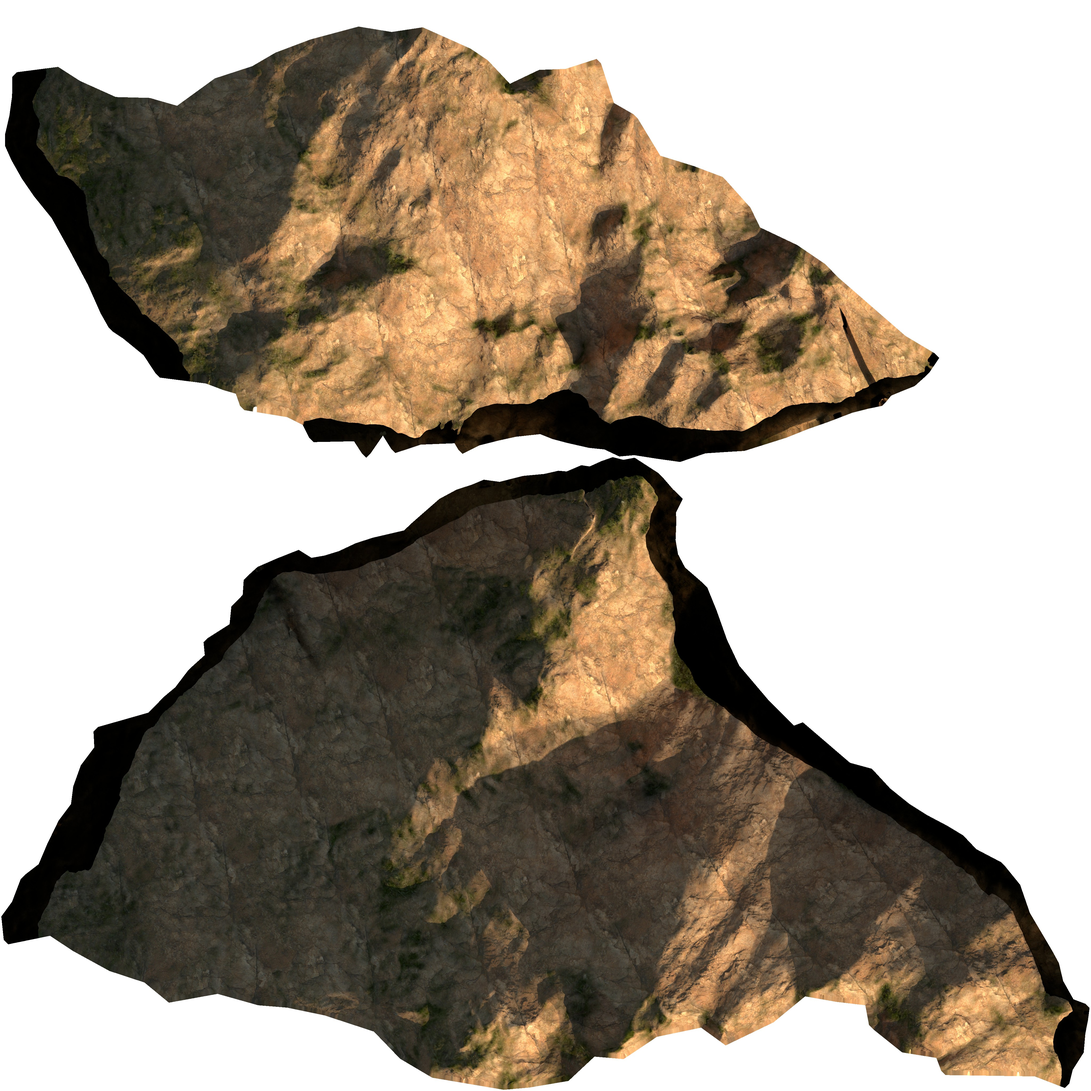
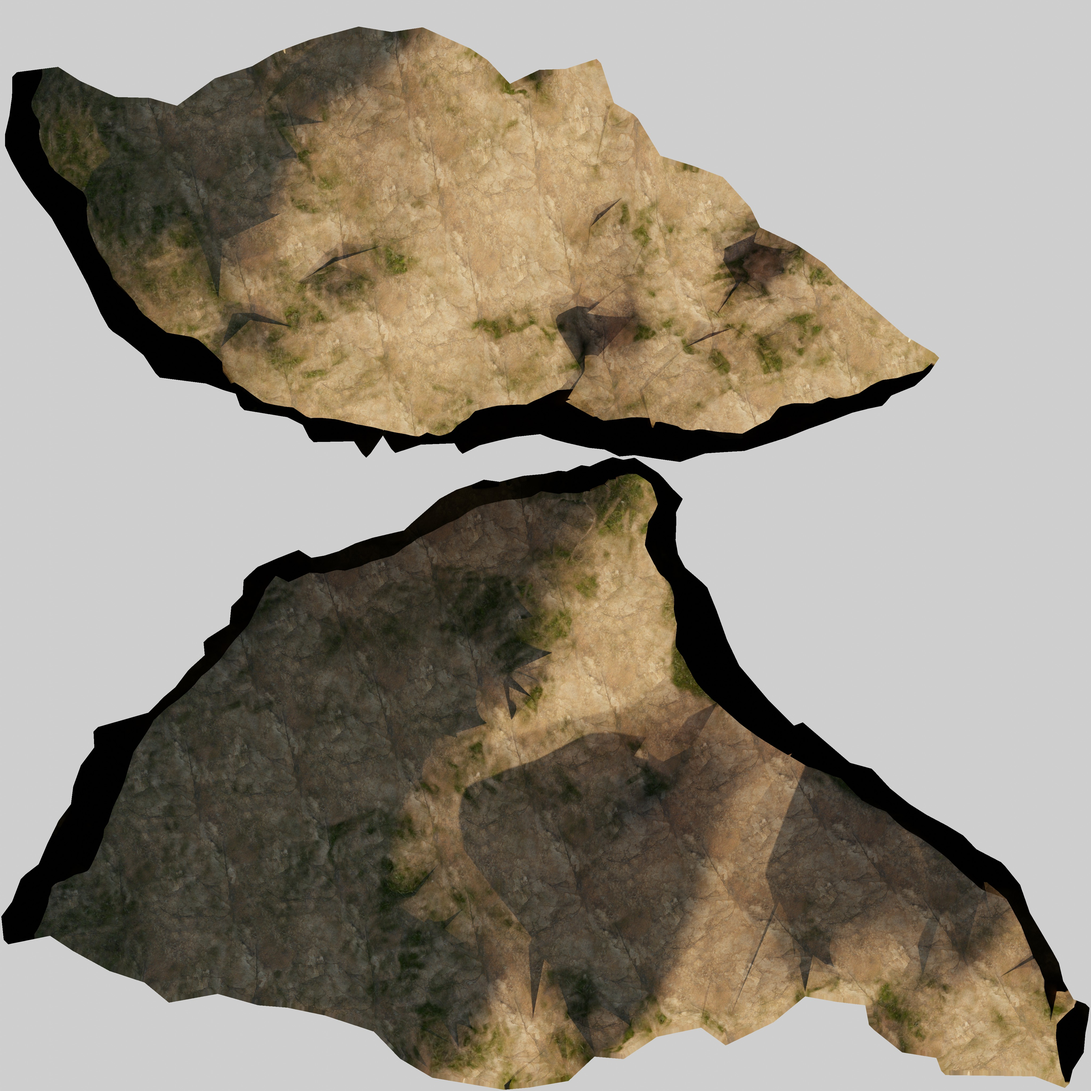
🎨 Textures > update sunrise, daylight

diff --git a/src/Experience/sources.js b/src/Experience/sources.js
@@ -79,7 +79,7 @@ export default [
     {
         name: 'baseTextureDaylight',
         type: 'texture',
-        path: 'models/Terrain/Base-sunrise.jpg',
+        path: 'models/Terrain/Base-daylight.jpg',
     },
     {
         name: 'baseTextureSunrise',

diff --git a/src/Experience/Constants.js b/src/Experience/Constants.js
@@ -54,7 +54,7 @@ export const CycleEmissions = {
             back: true,
         },
         environment: {
-            streets: true,
+            streets: false,
         },
     },
     daylight: {
